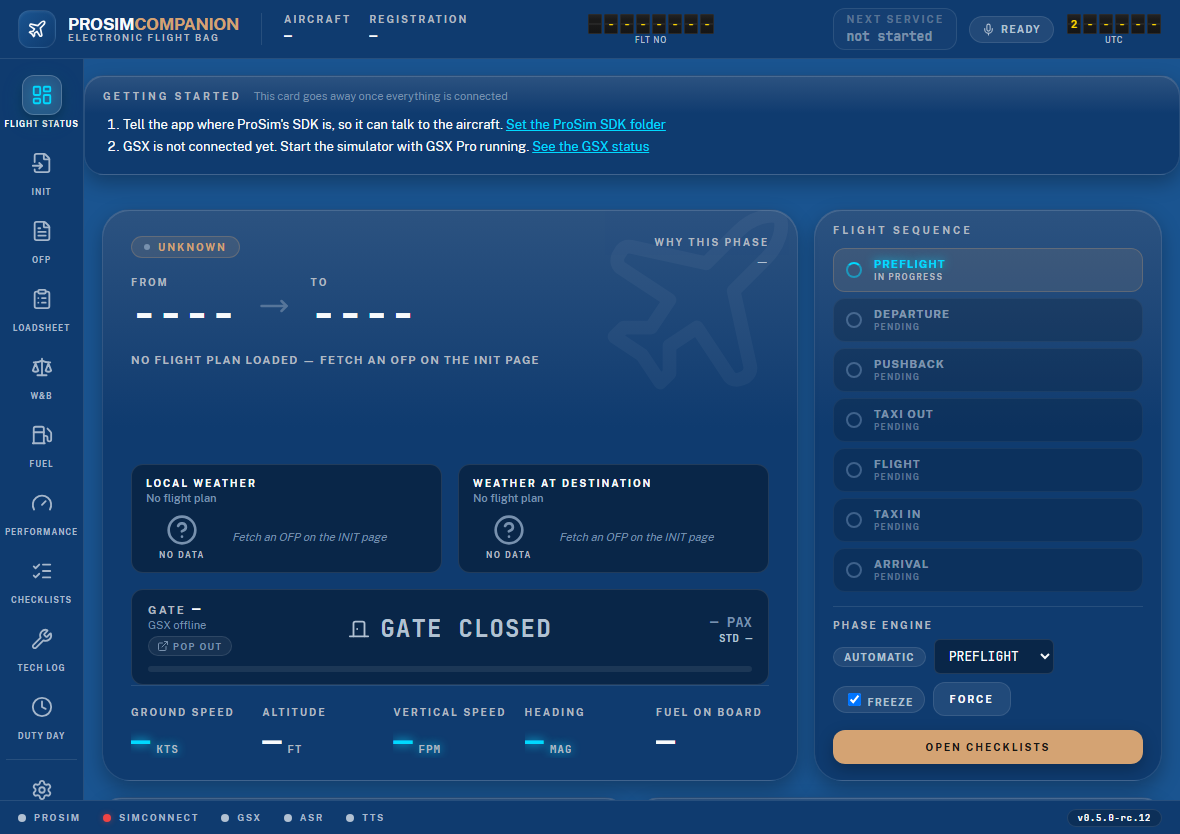
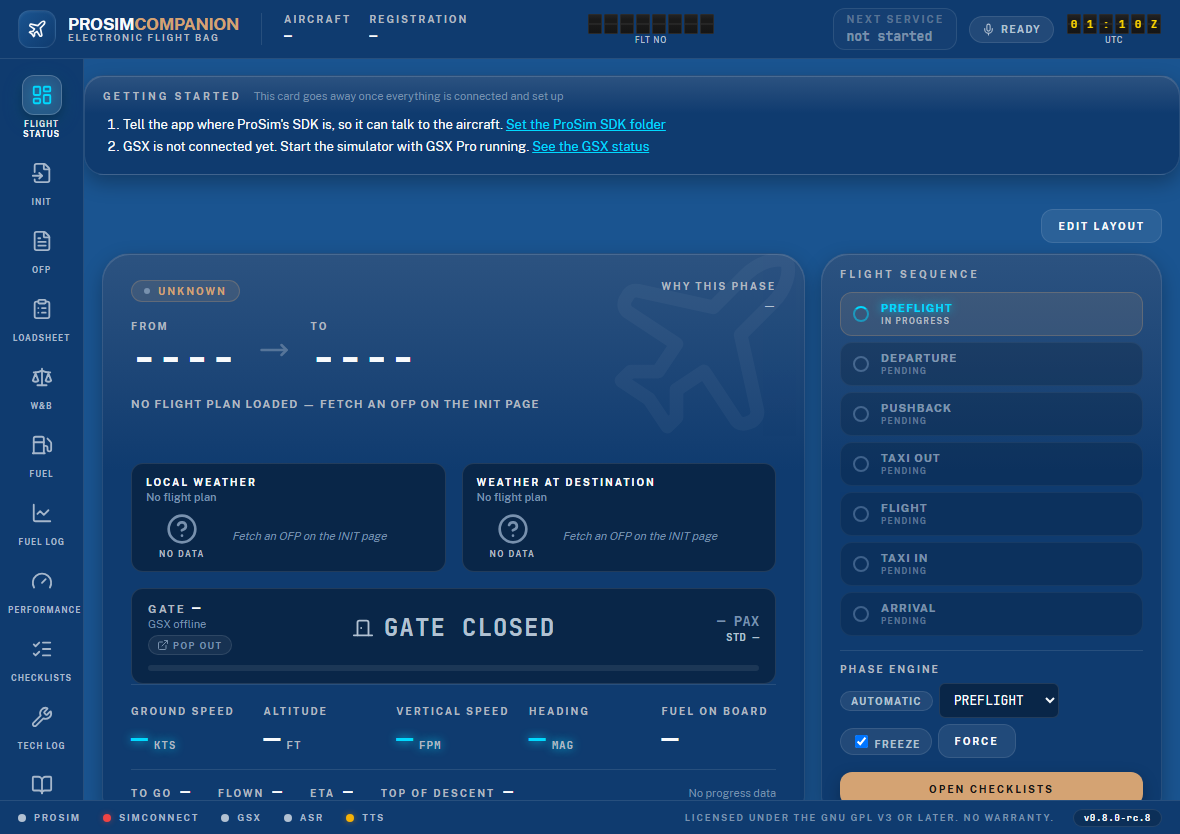
Docs: refresh every screenshot at 0.8.0-rc.8; README and manual for the November batch, remote mixer agents and Cockpit Switches
All 27 existing screenshots retaken on the 0.8.0-rc.8 Debug build (KLM Royal Dutch theme,
split-flap animation off); the two Remote Mixer shots now show the agent blocks of rc.12
(two agents, Captain PC / FO PC). New docs/img/cockpit-switches.png: Settings → Cockpit
Switches with the three leak measurement valves, in the README and manual chapter 12.

README: the airline-ops additions (#180–#189) under Flight data & EFB and Voice First
Officer, the remote mixer as agents with chapter 11, the Stream Deck plugin's Cockpit Switch
and Camera View keys with chapter 12. Manual chapter 2: the Settings hub table gains the
Cockpit Switches and Notifications rows, the vJoy relay on Setup, the agents on Audio
Control and the four new Display & Flight Data cards. Roadmap: Phase 11 for ADR-0015
(cockpit switches + vJoy relay), unverified live.

diff --git a/README.md b/README.md
@@ -73,6 +73,15 @@ flight pages, live figures on glass instrument cards, and a Solari split-flap cl
 - **SayIntentions, both ways** — your arrival gate goes to SayIntentions ATC, and (opt-in)
   the gate ATC assigns comes back as the GSX arrival gate; the FO waits for a quiet
   frequency before transmitting
+- **Airline-ops additions** (0.8.0, each off by default): a **wind row** on the Takeoff and
+  Landing pages judging head/tail and crosswind components (gust included) against your
+  aircraft limits, with a runway-condition strip (Dry / Wet / RWYCC) remembered for the
+  flight; the **fuel decision at dispatch** from the destination TAF and SimBrief's fuel
+  breakdown, and "how long can we hold"; a **diversion workflow** ("divert to the alternate")
+  that re-points the whole app — OFP, GSX arrival gate, ACARS, logbook, debrief — at the new
+  destination; **last-minute changes** against the final loadsheet once boarding completes
+  (revised final or captain's authority); **NOTAM highlights** on the OFP page, **step-climb
+  advice** from the navlog and an **FDP warning** against the EASA flight-time table
 
 ![Flight Monitor](docs/img/flight-monitor.png)
 
@@ -109,6 +118,16 @@ flight pages, live figures on glass instrument cards, and a Solari split-flap cl
   voice dialogues, pilot logbook with a **Logbook page** (totals, sortable flights, touchdown
   rate and bounces per landing, a trend chart, CSV export), spoken post-flight debrief,
   multi-leg company day mode
+- **The emergency half of a line pilot's day** (0.8.0, each off by default): a
+  **threat-based takeoff emergency brief** closing the departure briefing (the rejected-takeoff
+  split, the engine-out routing, acceleration altitude, MSA, return, the departure's NOTAM
+  threats) with go-around clauses in the arrival briefing; a **rejected takeoff** on the
+  captain's "stop" or the levers at idle, and the **engine failure after V1** drill that repeats
+  the briefed engine-out routing; **turbulence detection** with seat-belt advice, the purser's
+  "secure the cabin?" question and **captain's PA prompts** with a script card; **FO-side
+  duties** — the FO sets their own altimeter and ND and cross-checks the ADIRS and the FMGC;
+  **ACARS movement messages** (the MVT AD/AA telex), delay codes and on-time performance in
+  the logbook
 - TTS chain (Kokoro local neural → ElevenLabs → Google Chirp HD → Windows voices) with caching
   and an intercom filter; LAN faster-whisper or offline recognition; PTT on keyboard or joystick.
   ElevenLabs: bring your own key; the default MP3 output works on the Free plan (no commercial
@@ -133,15 +152,22 @@ flight pages, live figures on glass instrument cards, and a Solari split-flap cl
 - The cockpit **LOUD SPEAKER** dial is a mapping channel too: with a small VoiceMeeter loop
   it puts the headset sound on the cockpit speakers at the dial's level — step-by-step in
   [chapter 8](docs/manual/08-loudspeaker-dial.md)
-- **Remote mixer**: a Voicemeeter on *another* PC (the vPilot box) through the
-  VoicemeeterBridge agent ([releases](https://github.com/psyraxaus/VoicemeeterBridge/releases)) — knobs and REC latches onto its strip/bus gains and mutes, a
-  status card with mute buttons — step by step in
-  [chapter 9](docs/manual/09-remote-mixer.md)
+- **Remote mixer**: Voicemeeters on *other* PCs (the vPilot box, or one PC per pilot) through
+  VoicemeeterBridge agents ([releases](https://github.com/psyraxaus/VoicemeeterBridge/releases))
+  — one agent block per PC, knobs and REC latches onto their strip/bus gains and mutes, a
+  status card with mute buttons, and a warning when two knobs drive the same fader — step by
+  step in [chapter 9](docs/manual/09-remote-mixer.md); the two-headset VoiceMeeter layout in
+  [chapter 11](docs/manual/11-two-headsets.md)
 
 ### Integrations & platform
 - SayIntentions (spoken ATC requests, gate push, weather/CPDLC, the FO's wrong-frequency
-  report), ActiveSky weather chain,
-  Elgato Stream Deck plugin, opt-in HTTP command/status API
+  report), ActiveSky weather chain, opt-in HTTP command/status API
+- **Elgato Stream Deck plugin**, on the sim PC or any PC on your LAN: status, checklist and
+  voice keys, plus **Cockpit Switch** keys that press ProSim switches you have no hardware
+  for — Korry push buttons, toggles, knobs and guarded switches drawn like the real overhead,
+  lamps lit from the aircraft — and **Camera View** keys that change ChasePlane views through
+  a vJoy button on the sim PC; the switches are picked from ProSim's own list on the
+  **Cockpit Switches** settings page — [chapter 12](docs/manual/12-remote-streamdeck.md)
 - EFB-style web UI (ADR-0011): icon sidebar, glass instrument cards, split-flap clock,
   bundled fonts and icons (works offline), 13 airline/basic themes on the Appearance settings page
   plus user JSON themes and your own theme and airline logos (never shipped — you upload them
@@ -155,6 +181,7 @@ flight pages, live figures on glass instrument cards, and a Solari split-flap cl
   automatically on first run**
 
 ![Performance](docs/img/performance.png)
+![Cockpit Switches](docs/img/cockpit-switches.png)
 
 ## Getting started
 

diff --git a/docs/manual/02-using-the-app.md b/docs/manual/02-using-the-app.md
@@ -192,12 +192,14 @@ its own address, so a refresh or a link from a warning banner lands on the right
 
 | Rail entry | What it holds |
 |---|---|
-| **Setup** | The three master switches (GSX ground services, voice First Officer, audio control), the ProSim host/SDK path, the **ProSim Setup Check** card (below), nav data, **Weather Sources** (ActiveSky), web port/LAN access, **Wake-on-LAN** (one row per PC the app should power on at startup — the language-model box, the speech server, any other — each with a Send now button), the Stream Deck command API, the update check |
+| **Setup** | The three master switches (GSX ground services, voice First Officer, audio control), the ProSim host/SDK path, the **ProSim Setup Check** card (below), nav data, **Weather Sources** (ActiveSky), web port/LAN access, **Wake-on-LAN** (one row per PC the app should power on at startup — the language-model box, the speech server, any other — each with a Send now button), the Stream Deck command API, the **vJoy relay** for Camera View keys ([chapter 12](12-remote-streamdeck.md)), the update check |
 | **Ground Services** | Status board (departure services with hold/skip reasons, decision log, gate control, the live GSX menu card) and all GSX behaviour: doors & jetway, ground equipment, departure services, refuel & boarding, pushback, arrival, operators & hubs, GSX questions, connection & timeouts |
 | **Voice First Officer** | Status (provider tests, minima card, speak test, Wake PCs), general, FO persona, listening & PTT, sterile cockpit, crew voices, ground crew, cabin crew, company & debrief (company channel, post-flight debrief, company day), tech log & logbook, briefings & LLM, MCDU, SayIntentions, callouts & placards, abnormals & drills, voice providers, ElevenLabs |
-| **Audio Control** | Status, backend choice, CoreAudio mappings, VoiceMeeter mappings (ACP knobs and the loudspeaker dial — [chapter 8](08-loudspeaker-dial.md)), Remote Mixer (a Voicemeeter on another PC through the VoicemeeterBridge agent — [chapter 9](09-remote-mixer.md)), housekeeping |
-| **Display & Flight Data** | Units, split-flap animation, loadsheet automation, the Flight Status card (final-call thresholds, weather refresh, top-of-descent notice), checklist ticks |
+| **Audio Control** | Status, backend choice, CoreAudio mappings, VoiceMeeter mappings (ACP knobs and the loudspeaker dial — [chapter 8](08-loudspeaker-dial.md)), Remote Mixer (Voicemeeters on other PCs through VoicemeeterBridge agents, one block per PC — [chapter 9](09-remote-mixer.md); the two-headset layout in [chapter 11](11-two-headsets.md)), housekeeping |
+| **Cockpit Switches** | The ProSim switches offered to the Stream Deck's Cockpit Switch keys: one grid line per switch picked from ProSim's own list, look, what a press does, legends, lamps and colours, a live-state pill and a test Press; **Add the three leak measurement valves** fills in the preset — [chapter 12](12-remote-streamdeck.md) |
+| **Display & Flight Data** | Units, split-flap animation, loadsheet automation, the Flight Status card (final-call thresholds, weather refresh, top-of-descent notice), checklist ticks, **Aircraft limits** (wind), **Fuel decision**, **Diversion**, **Last-Minute Changes** |
 | **Appearance** | Theme swatches, the header NEXT SERVICE button toggle, your theme logos for the header, your airline logos for the Flight Monitor |
+| **Notifications** | ntfy / Discord / webhook targets and the per-event switches ([below](#notifications-on-your-phone)) |
 | **Aircraft Profiles** | Per-aircraft settings profiles with automatic matching |
 | **Advanced** | Flight phase engine thresholds, the live log viewer with capture settings |
 

diff --git a/docs/ROADMAP.md b/docs/ROADMAP.md
@@ -951,6 +951,26 @@ Ten packages, one branch and one GitHub issue each, branched from `feature/remot
       `notam-highlights`, `step-climb-advice`, `fdp-warning`. Unverified live.
 
 
+## Phase 11 — Cockpit switches and the vJoy relay (ADR-0015)
+
+A Stream Deck on another PC asks the app for the things only the sim PC can do. Built on
+`feature/cockpit-switches` on top of the November batch (0.8.0-rc.3 … rc.7; two-axis review
+in rc.6, leak-valve lamp correction in rc.7), merged to `main` at 0.8.0-rc.8. **Unverified
+live** until a flight confirms it.
+
+- [x] **Cockpit switches** — Settings → Cockpit Switches: one row per `system.switches.S_*`
+      dataref from ProSim's own catalogue (look, press mode, legends, lamp datarefs, colours,
+      `showUnlitLegend`, `lowerLitAtZero`), the leak-measurement-valve preset, commands
+      `cockpit.press` / `cockpit.set` (row ids only), `GET /api/controls`, `switches[]` on
+      `/api/status`, the `ProsimWriteGate.ConfiguredSwitchAllowed` hook bounded to configured +
+      catalogued `S_` names. Plugin **Cockpit Switch** key with Korry / toggle / knob / guarded
+      faces. Probe `cockpit-press`. Unverified live.
+- [x] **vJoy relay** — `inputRelay` (Settings → Setup), `VJoyInputRelay` in Sim,
+      `input.pressView {name}` over named view rows, the Setup card with Check / Press; plugin
+      **Camera View** key. Probe `input-vjoy` (watch). Unverified live.
+- [x] Manual chapter 12, integration note `docs/integrations/cockpit-switches.md`, seven
+      language packs.
+
 ## Open items (after the rc.5 batch, 2026-10-11)
 
 Nothing on this roadmap is open as code. What remains:

diff --git a/docs/manual/12-remote-streamdeck.md b/docs/manual/12-remote-streamdeck.md
@@ -33,6 +33,8 @@ firewall and that LAN access is on. *re-pair* means the token was changed — pa
 
 Settings → **Cockpit Switches** on the sim PC's web UI.
 
+![Cockpit Switches settings page with the three leak measurement valves](../img/cockpit-switches.png)
+
 1. Press **Add the three leak measurement valves** if you want them: three lines appear (or
    existing ones are reset to the preset) — blue / green / yellow bezels, the lamp follows the
    button itself (no aircraft power needed) the way the real OFF light does: a lit **OFF** in
